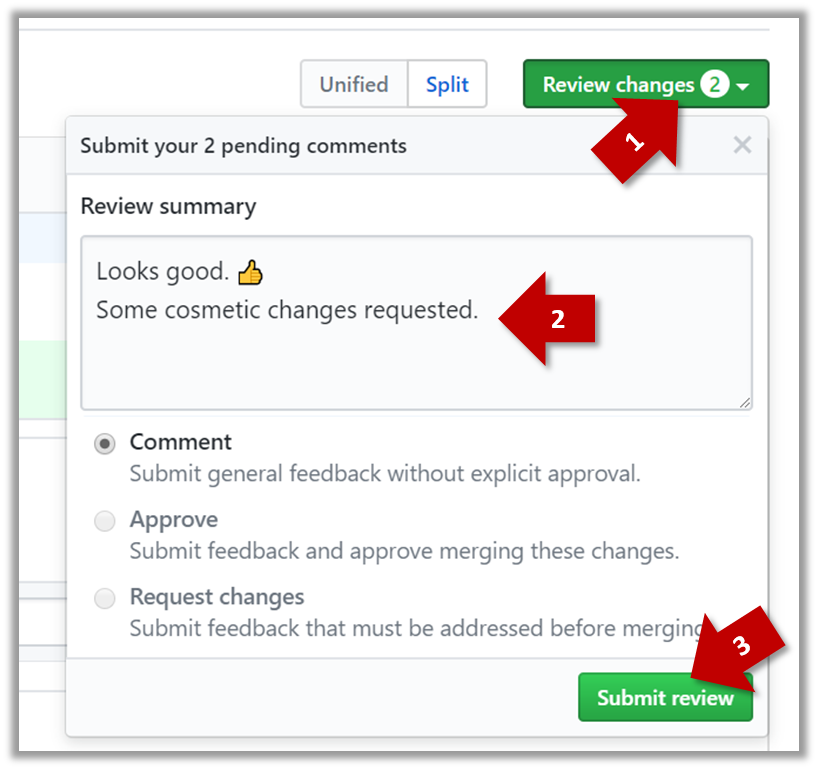
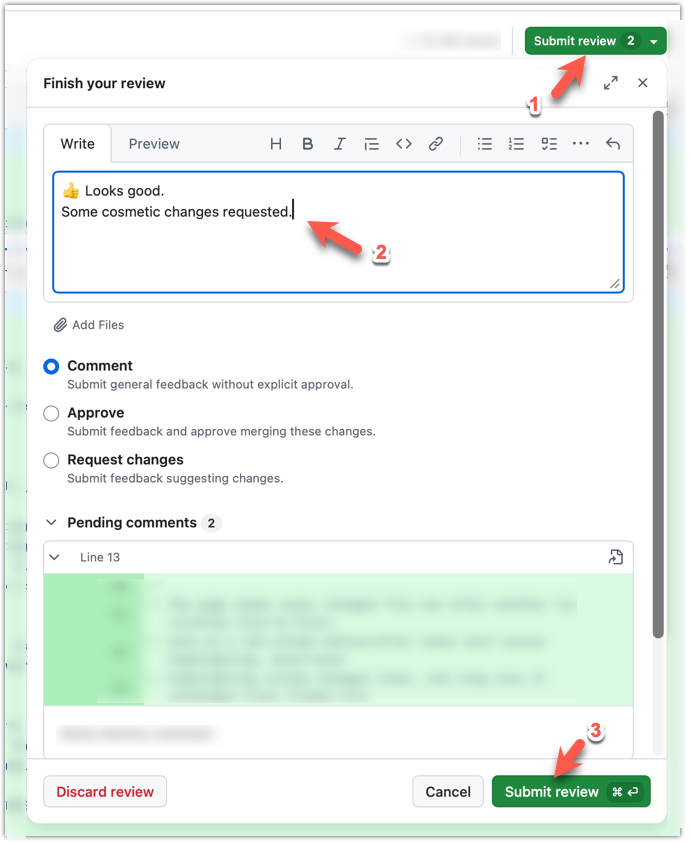
PRs: Update outdated screenshots

diff --git a/lessons/prsReview/text.md b/lessons/prsReview/text.md
@@ -36,8 +36,8 @@ Another way to contribute to a GitHub project is by giving input via a pull requ
 
 <div class="indented-level1" id="tip-pr-split-view">
 
-{{ icon_tip }} You can use the following setting to try the two different views available and pick the one you like.<br>
-<pic src="images/splitVsUnifiedDiffView.png"/>
+{{ icon_tip }} You can use the following setting to try the two different views available (`Unified` vs `Split`) and pick the one you like. You can enable the `Minimize` comments feature to hide comments given by others (if they are getting in your way)<br>
+<pic src="images/configurePrView.png" width="300" />
 </div>
 
 
@@ -59,10 +59,10 @@ Another way to contribute to a GitHub project is by giving input via a pull requ
 * Repeat the above steps to add more comments.
 
 {{ hp_number("5") }}**Submit the review:**<br>
-   <pic eager src="images/submitReview.png" width="500" />
+   <pic eager src="images/submitReview.png" width="600" />
    <p/>
 
-* When there are no more comments to add, click on the {{ button_green("Review changes :octicon-triangle-down:") }} button (on the top right of the diff page). {{ sub_numbers('5') }}
+* When there are no more comments to add, click on the {{ button_green("Submit review __ :octicon-triangle-down:") }} button (on the top right of the diff page). {{ sub_numbers('5') }}
 * Type in an overall comment about the PR, if any. e.g.,
    ```{.no-line-numbers}
    Overall, I found your code easy to read for the most part, except in a few places
